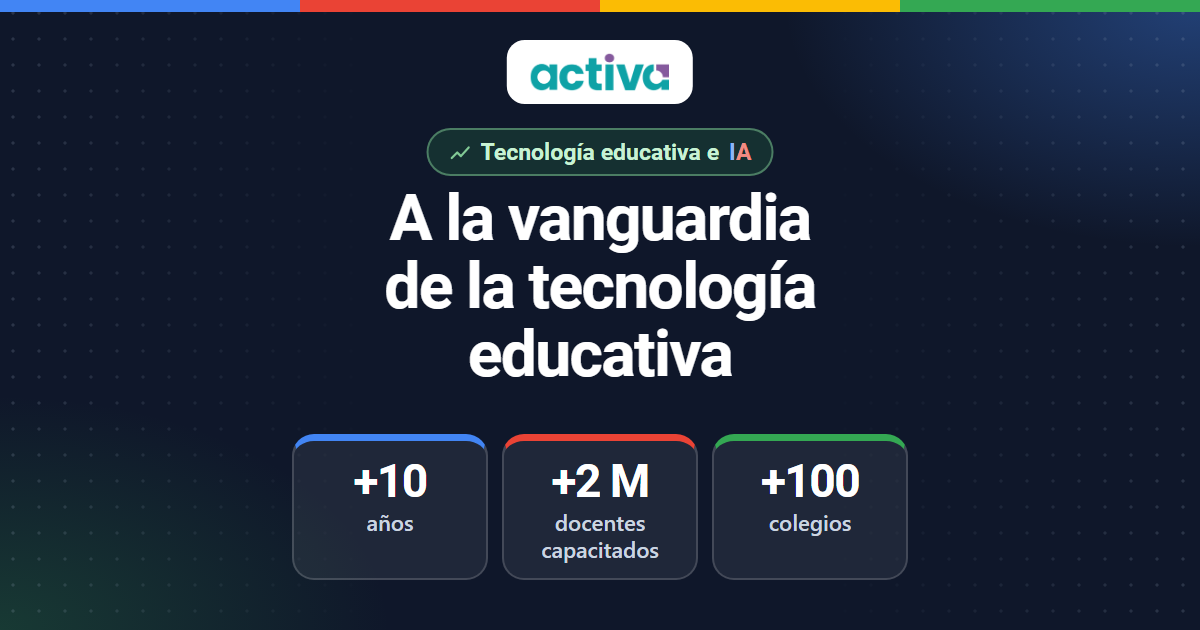
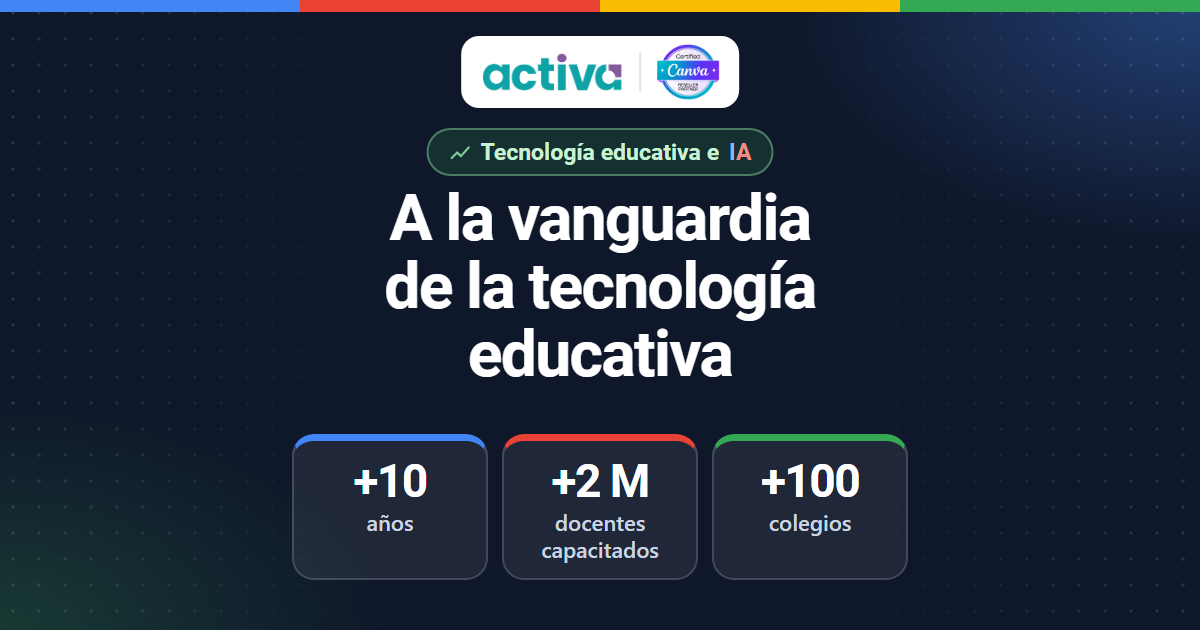
activa y la IA: sello de Canva Partner en portada, Quiénes somos y cierre; el cierre queda solo con Gracias
- Sello Certified Canva Reseller Partner en la portada, en «Quiénes somos»
  y en el cierre.
- El cierre queda solo con «Gracias».
- Arreglo de los números de las siete ventanas en celular y guardas de
  impresión.
- og.png y og-source.html regenerados con activa + sello de Canva (ya no
  muestran el diseño anterior).
- README con la tabla de 10 láminas y las reglas actualizadas.

Changed region(s): [[0.37, 0.0302, 0.6167, 0.181]]

diff --git a/paginas/datos-ia/index.html b/paginas/datos-ia/index.html
@@ -184,6 +184,16 @@ b,strong{font-weight:600;color:var(--ink)}
 
 /* ══════════ 2 · QUIÉNES SOMOS ══════════ */
 .qs{grid-template-columns:1.02fr 1fr .98fr;align-items:stretch}
+/* la línea de presentación y los dos sellos de partner, en un solo renglón */
+.qs-sub{display:flex;align-items:center;justify-content:space-between;gap:24px}
+.sellos{display:flex;align-items:center;gap:14px;flex-shrink:0;padding:3px 16px;border-radius:99px;background:var(--white);box-shadow:var(--sh)}
+.sellos img{width:auto}
+.sellos .sep{width:1px;height:30px;background:var(--line)}
+.sellos .xs{font-size:12px;line-height:1.25}
+.slide[data-bloque="quienes"] .head{margin-bottom:12px}
+.slide[data-bloque="quienes"] .tray{gap:6px}
+.slide[data-bloque="quienes"] .card{gap:9px}
+.slide[data-bloque="quienes"] .red4{gap:8px}
 .fila{display:flex;gap:11px;align-items:flex-start}
 .fila b{display:block;font-size:14.5px;line-height:1.25}
 .fila span{display:block;font-size:12.8px;line-height:1.36;color:var(--ink2);margin-top:2px}
@@ -449,6 +459,9 @@ ul.pv.g li svg{fill:var(--grn-d)} ul.pv.b li svg{fill:var(--blue)}
   .grid.g2,.grid.g3,.qs,.eq,.prop,.fut,.campos.dos{grid-template-columns:1fr!important}
   .body{justify-content:flex-start}
   .p-red{width:100%;opacity:.35}
+  .qs-sub{flex-direction:column;align-items:flex-start;gap:12px}
+  .sellos{flex-wrap:wrap;border-radius:18px}
+  .p1-logos{flex-wrap:wrap;justify-content:center}
   /* los diagramas se vuelven listas: los nodos fluyen y el trazo se esconde */
   .ciclo,.radial{width:auto;height:auto;display:grid;gap:10px}
   .ciclo svg.anillo,.radial svg.rayos,.mv-halo{display:none}
@@ -519,7 +532,8 @@ ul.pv.g li svg{fill:var(--grn-d)} ul.pv.b li svg{fill:var(--blue)}
 <div id="stage">
 
 <!-- ═════════ 1 · PORTADA ═════════
-Sin datos de la empresa: solo marca, título y para qué estamos aquí.
+Sin datos de la empresa: solo las tres marcas (activa, Google for Education
+Partner, Certified Canva Reseller Partner), el título y para qué estamos aquí.
 MOVIMIENTO: red de partículas en los cuatro colores de Google (a la derecha,
 desvanecida hacia el texto), círculos que siguen al cursor y subrayado a mano. -->
 <section class="slide cover" data-bloque="apertura">
@@ -531,6 +545,8 @@ desvanecida hacia el texto), círculos que siguen al cursor y subrayado a mano. 
       <img src="../../compartidos/img/marcas/activa.webp" alt="activa" style="height:32px">
       <span class="sep"></span>
       <img src="../../compartidos/img/marcas/google-for-education-partner.webp" alt="Google for Education Partner">
+      <span class="sep"></span>
+      <img src="../../compartidos/img/marcas/canva-reseller-partner.webp" alt="Certified Canva Reseller Partner" style="height:56px">
     </div>
     <h1 class="p1-h1">A la <span class="mv-r">vanguardia<svg viewBox="0 0 200 11" preserveAspectRatio="none" aria-hidden="true"><path class="mv-traza" pathLength="100" d="M3 6.4C36 3 72 8.6 108 5.4 140 2.6 169 4.4 197 8" style="--d:.5s"/></svg></span> de la tecnología educativa</h1>
     <p class="p1-lead">Queremos construir, junto con aliados, una inteligencia artificial que entienda el aula.</p>
@@ -544,11 +560,18 @@ MOVIMIENTO: cascada de las tres columnas, aro de carga en «16» (la cifra no
 se toca) y pulso de radar en la región. -->
 <section class="slide" data-bloque="quienes">
   <span class="shape" style="width:430px;height:430px;right:-190px;top:-190px;background:var(--blue-t)"></span>
-  <div class="brandmark"><img src="../../compartidos/img/marcas/google-for-education-partner.webp" alt="Google for Education Partner"></div>
   <div class="head">
     <div class="eyebrow b">Quiénes somos</div>
     <h2>Más de 10 años transformando la educación con tecnología</h2>
-    <p class="lead"><em class="marca">activa</em> es socio de transformación educativa de los colegios y Google for Education Partner.</p>
+    <div class="qs-sub">
+      <p class="lead"><em class="marca">activa</em> es socio de transformación educativa de los colegios.</p>
+      <div class="sellos">
+        <img src="../../compartidos/img/marcas/google-for-education-partner.webp" alt="Google for Education Partner" style="height:26px">
+        <span class="sep"></span>
+        <img src="../../compartidos/img/marcas/canva-reseller-partner.webp" alt="Certified Canva Reseller Partner" style="height:38px">
+        <span class="xs"><b>Certified Canva</b><br>Reseller Partner</span>
+      </div>
+    </div>
   </div>
   <div class="body">
     <div class="grid qs">
@@ -961,7 +984,8 @@ entran en cascada. -->
   </div>
 </section>
 
-<!-- ═════════ 10 · CIERRE ═════════ Sin datos de contacto, a pedido.
+<!-- ═════════ 10 · CIERRE ═════════ Solo «Gracias» y los tres logos (activa,
+Google for Education Partner, Certified Canva Reseller Partner), a pedido.
 MOVIMIENTO: los círculos siguen al cursor. Sin red de partículas: al centro,
 detrás del texto, una partícula cercana se leía como un manchón. -->
 <section class="slide cover" data-bloque="cierre">
@@ -972,10 +996,10 @@ detrás del texto, una partícula cercana se leía como un manchón. -->
       <img src="../../compartidos/img/marcas/activa.webp" alt="activa" style="height:32px">
       <span class="sep"></span>
       <img src="../../compartidos/img/marcas/google-for-education-partner.webp" alt="Google for Education Partner">
+      <span class="sep"></span>
+      <img src="../../compartidos/img/marcas/canva-reseller-partner.webp" alt="Certified Canva Reseller Partner" style="height:56px">
     </div>
-    <h1 class="p1-h1" style="margin-top:30px">Gracias</h1>
-    <p class="p1-lead" style="margin-top:16px;max-width:none">Construyamos juntos una IA que entienda la educación.</p>
-    <span class="p1-sello"><svg aria-hidden="true"><use href="#m-candado"/></svg>Con la privacidad primero y la autorización de cada colegio</span>
+    <h1 class="p1-h1" style="margin-top:34px;font-size:96px">Gracias</h1>
   </div>
 </section>
 

diff --git a/paginas/datos-ia/og-source.html b/paginas/datos-ia/og-source.html
@@ -14,8 +14,10 @@ body{font-family:"Google Sans","Product Sans",Roboto,"Segoe UI",Arial,sans-serif
 .puntos{position:absolute;inset:0;opacity:.55;background-image:radial-gradient(rgba(148,163,184,.4) 1.4px,transparent 1.8px);background-size:26px 26px;
   -webkit-mask-image:linear-gradient(90deg,#000 0,transparent 32%,transparent 68%,#000 100%);mask-image:linear-gradient(90deg,#000 0,transparent 32%,transparent 68%,#000 100%)}
 .franja{position:absolute;left:0;right:0;top:0;height:12px;background:linear-gradient(90deg,#4285f4 0 25%,#ea4335 25% 50%,#fbbc04 50% 75%,#34a853 75% 100%)}
-.logo{position:absolute;top:40px;left:50%;transform:translateX(-50%);padding:12px 22px;border-radius:18px;background:#fff;display:flex}
+.logo{position:absolute;top:36px;left:50%;transform:translateX(-50%);padding:8px 20px;border-radius:18px;background:#fff;display:flex;align-items:center;gap:16px}
 .logo img{height:40px}
+.logo .sep{width:2px;height:40px;background:#e3e5e8}
+.logo img.cv{height:56px}
 .sello{position:absolute;top:128px;left:50%;transform:translateX(-50%);display:inline-flex;align-items:center;gap:10px;padding:8px 20px;border-radius:999px;background:rgba(52,168,83,.18);border:2px solid rgba(129,201,149,.5);font-size:23px;font-weight:700;color:#c8f2d4;white-space:nowrap}
 .sello svg{width:22px;height:22px;stroke:#81c995;fill:none;stroke-width:2.4;stroke-linecap:round;stroke-linejoin:round}
 h1{position:absolute;top:190px;left:0;right:0;font-size:78px;line-height:1.02;font-weight:700;letter-spacing:-3px}
@@ -33,7 +35,7 @@ h1 .ia i:nth-child(1){color:#8ab4f8}h1 .ia i:nth-child(2){color:#f28b82}
 <body>
 <div class="puntos"></div>
 <div class="franja"></div>
-<div class="logo"><img src="../../compartidos/img/marcas/activa.webp" alt="activa"></div>
+<div class="logo"><img src="../../compartidos/img/marcas/activa.webp" alt="activa"><span class="sep"></span><img class="cv" src="../../compartidos/img/marcas/canva-reseller-partner.webp" alt="Certified Canva Reseller Partner"></div>
 <div class="sello"><svg viewBox="0 0 24 24"><path d="M3.5 18.5l6-6 4 4L22 7"/></svg>Tecnología educativa e <span class="ia"><i>I</i><i>A</i></span></div>
 <h1 style="font-size:64px;top:184px;line-height:1.06;letter-spacing:-1.6px">A la vanguardia<br>de la tecnología<br>educativa</h1>
 <div class="cifras">

diff --git a/paginas/datos-ia/README.md b/paginas/datos-ia/README.md
@@ -13,13 +13,18 @@ está en el portal ni en el kit comercial.
    tecnología educativa» y la propuesta; los datos aparecen después como «lo que conocemos del
    aula». Nada de «datos para tu IA», «Qué tenemos» ni «Cómo se entrega».
 1. **La información de la empresa vive en UNA lámina** (la 2, «Quiénes somos»): ecosistema,
-   trayectoria y la red de hoy. La portada no lleva datos de la empresa ni rótulos de reunión.
-2. **Ningún dato de contacto.** Es una reunión 1:1: el contacto lo pone quien presenta.
-3. **Ningún nombre de colegio.** Lo que se agrupa por colegio va con un código.
-4. **La privacidad se dice en positivo.** El deck puede llegar a otras manos (un padre, un
+   trayectoria y la red de hoy. La portada no lleva datos de la empresa ni rótulos de reunión:
+   solo las tres marcas, el título y una línea.
+2. **Las tres marcas, siempre juntas:** activa, Google for Education Partner y Certified Canva
+   Reseller Partner (`compartidos/img/marcas/canva-reseller-partner.webp`), en la portada, en
+   «Quiénes somos», en el cierre y en la vista previa de WhatsApp.
+3. **El cierre es solo «Gracias»** con las tres marcas. Sin frase ni sello, a pedido.
+4. **Ningún dato de contacto.** Es una reunión 1:1: el contacto lo pone quien presenta.
+5. **Ningún nombre de colegio.** Lo que se agrupa por colegio va con un código.
+6. **La privacidad se dice en positivo.** El deck puede llegar a otras manos (un padre, un
    colegio), y una lista de «lo que nunca compartimos» se lee como «esto es lo que tenemos». Cada
    punto dice cómo se protege el dato y dónde se queda.
-5. **No se inventan campos.** Lo de la Consola de Google sale del manual de
+7. **No se inventan campos.** Lo de la Consola de Google sale del manual de
    [`../consola/`](../consola/) (bloques 5.4 y 6.8). La Consola no guarda historial de navegación
    en la edición de los colegios: las páginas web salen del filtro de contenido (Securly y Mobile
    Guardian). Las ilustraciones de barras y anillos **no llevan cifras**: son dibujo, no datos.
@@ -33,8 +38,8 @@ trayectoria.
 
 | # | Lámina | `data-bloque` | Movimiento |
 | --- | --- | --- | --- |
-| 1 | Portada · «A la vanguardia de la tecnología educativa» | `apertura` | Red de partículas Google a la derecha (desvanecida hacia el texto), círculos que siguen al cursor, subrayado trazado |
-| 2 | Quiénes somos · un solo aliado, ecosistema propio, trayectoria, la red de hoy | `quienes` | Cascada de las tres columnas; aro de carga alrededor de «16»; pulso de radar en la región |
+| 1 | Portada · las tres marcas y «A la vanguardia de la tecnología educativa» | `apertura` | Red de partículas Google a la derecha (desvanecida hacia el texto), círculos que siguen al cursor, subrayado trazado |
+| 2 | Quiénes somos · sellos de Google y Canva, un solo aliado, ecosistema propio, trayectoria, la red de hoy | `quienes` | Cascada de las tres columnas; aro de carga alrededor de «16»; pulso de radar en la región |
 | 3 | La propuesta · «Una alianza para una IA que entienda el aula» | `propuesta` | Ciclo aula → activa → aliado de IA → mejores herramientas: nodos que entran en orden, puntos que recorren el aro, centro que respira |
 | 4 | Privacidad · «Lo que sí compartimos» y «Cómo cuidamos la privacidad» | `privacidad` | Banda de anonimización: personas → escudo con barrido de luz → barras de grupo que crecen; flechas que fluyen |
 | 5 | Siete ventanas al aula | `fuentes` | Diagrama radial: las siete ventanas entran en orden y las líneas al centro fluyen |
@@ -42,7 +47,7 @@ trayectoria.
 | 7 | Uso digital · Workspace, páginas web y aplicaciones | `uso` | Barras de uso que crecen, chips de categoría que entran, apps que aparecen y un reloj que late |
 | 8 | Aprendizaje y vida escolar · plataformas y gestión escolar | `aprendizaje` | Anillos de avance que se trazan y eventos que aparecen en la línea del ciclo escolar |
 | 9 | Lo que viene en 2027 | `futuro` | Línea de tendencia que se dibuja; hitos en cascada |
-| 10 | Cierre · «Gracias · Construyamos juntos una IA que entienda la educación» | `cierre` | Círculos que siguen al cursor (sin partículas: al centro se leían como manchón) |
+| 10 | Cierre · las tres marcas y «Gracias» | `cierre` | Círculos que siguen al cursor (sin partículas: al centro se leían como manchón) |
 
 Las láminas 6 a 8 terminan con la franja **«Cómo se comparte»**, y cada campo lleva título, qué es
 y chips de cómo se agrupa.
